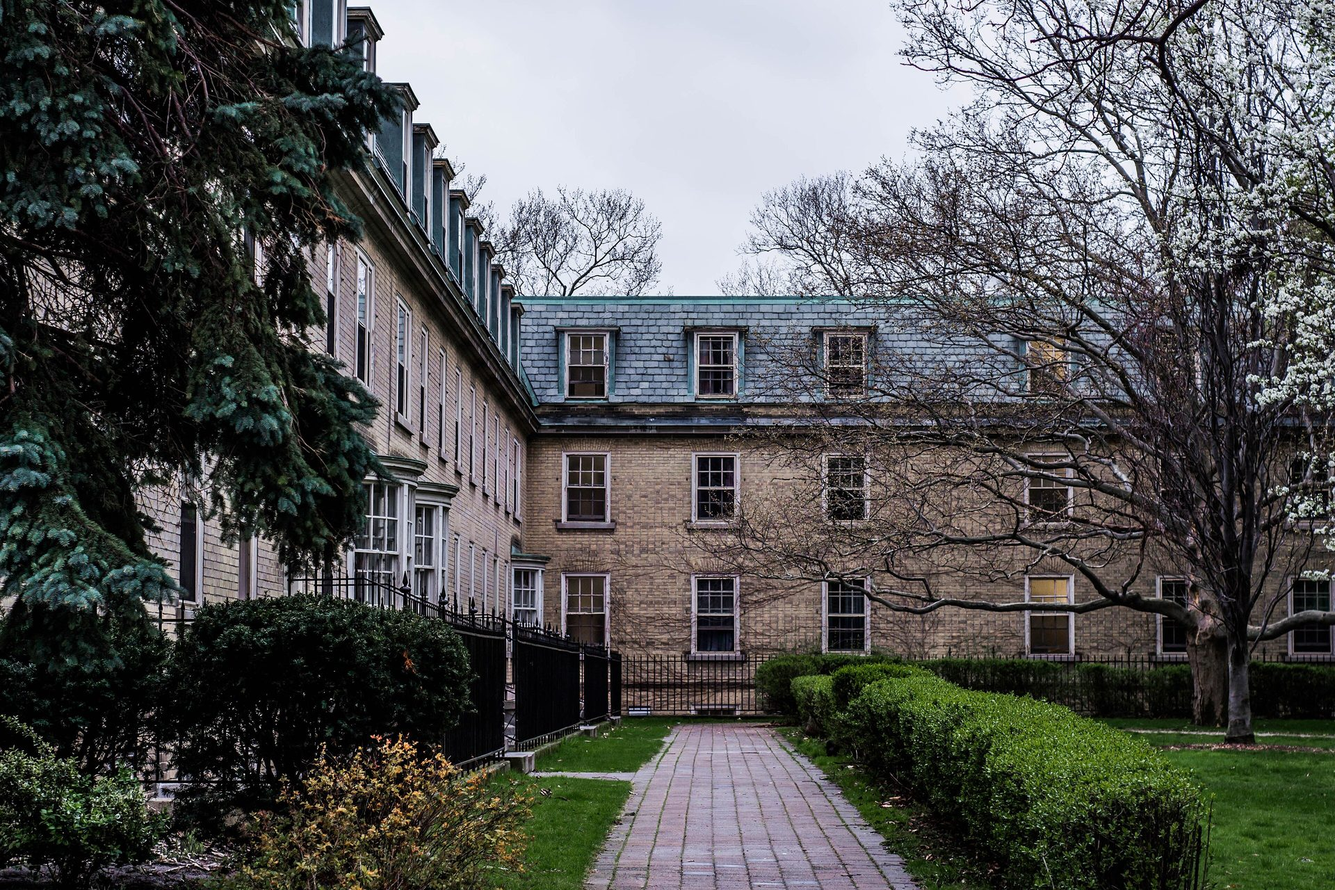
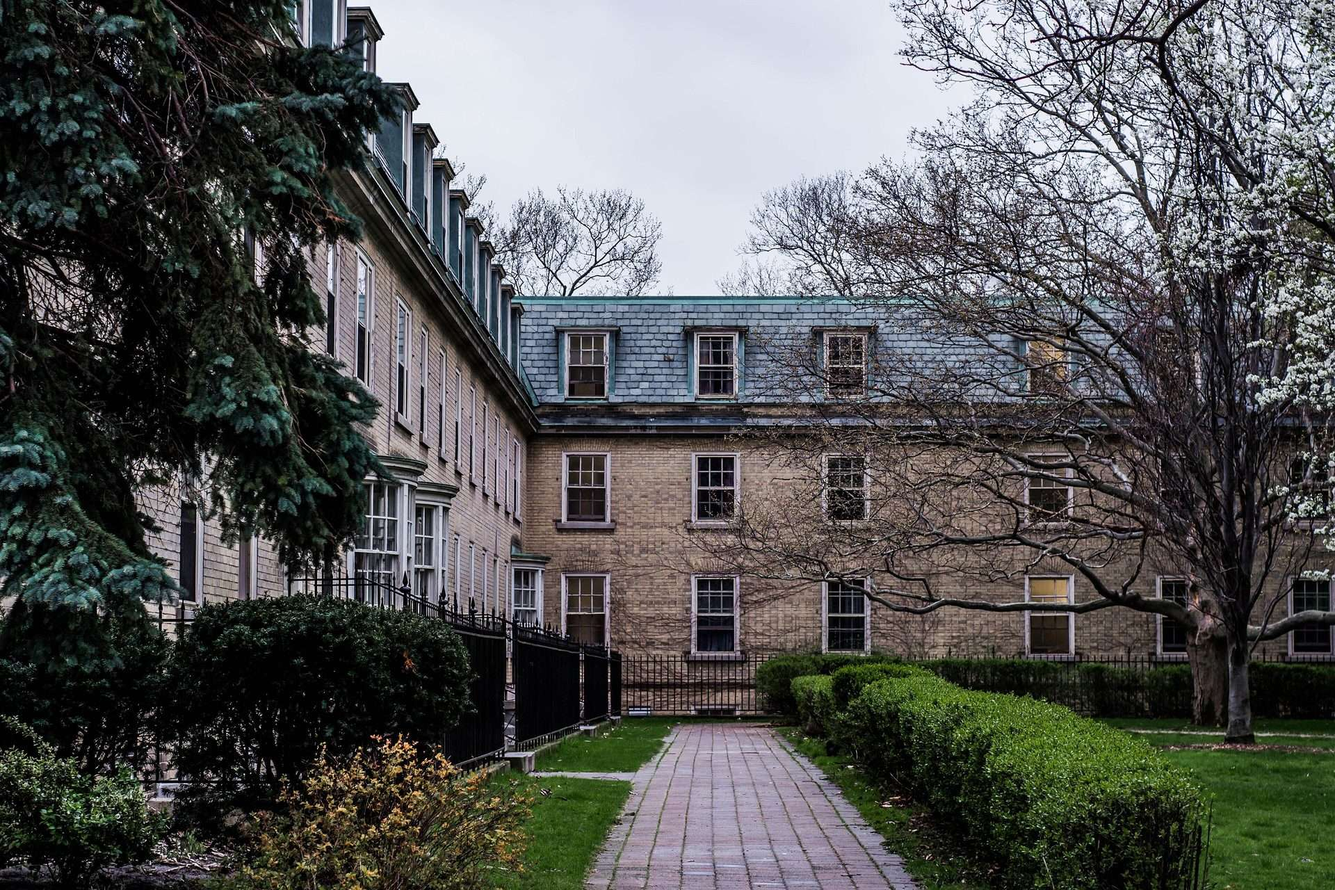
Corrige os problemas da auditoria de design
- Título da Motivação cabe na coluna: o tamanho segue a largura e o número de letras
- Plural de palavras em "ão" (coleção vira coleções)
- Textos miúdos sobem para 0,72rem (contagem da capa e selos dos tópicos)
- Letreiros verticais: caixa da letra cobre os acentos e a conta do tamanho tem folga
- Foto da UEM recomprimida (804 KB para 489 KB)
- Conteúdo pré-carregado em arquivo à parte, carregado só na hora de aplicar
- PRODUCT.md com os nomes, a logo e as pendências atuais

diff --git a/src/pages/ModulePage.tsx b/src/pages/ModulePage.tsx
@@ -1,4 +1,4 @@
-import { Fragment, useState } from 'react'
+import { Fragment, useState, type CSSProperties } from 'react'
 import { Link, Navigate, useParams } from 'react-router-dom'
 import { AddForm } from '../components/AddForm'
 import { Band, Film } from '../components/Cover'
@@ -203,8 +203,10 @@ function RenaissanceHeader({ mod, summary }: { mod: AppModule; summary: string }
   return (
     <header>
     <div className="grid items-center gap-8 md:grid-cols-[minmax(0,1fr)_minmax(0,1.15fr)]">
-      <div>
-        <h1 className="bodoni text-[4.5rem] text-accent md:text-[6rem]">{mod.label}</h1>
+      <div className="@container">
+        <h1 className="bodoni text-[min(6rem,calc(130cqw/var(--len)))] text-accent" style={{ '--len': mod.label.length } as CSSProperties}>
+          {mod.label}
+        </h1>
         <span className="plate-rule mt-6 w-10" />
         <p className="garamond mt-5 max-w-[24rem] text-[1.6rem] leading-snug italic">{mod.tagline}</p>
       </div>
@@ -433,7 +435,7 @@ function ControlRow({
         <span className="flex flex-wrap items-center gap-x-2 gap-y-1">
           <span className="font-semibold">{topic.title}</span>
           {topic.badge && (
-            <span className="mono rounded-full border border-accent px-2 text-[0.68rem] uppercase text-accent">
+            <span className="mono rounded-full border border-accent px-2 text-[0.72rem] uppercase text-accent">
               {topic.badge}
             </span>
           )}

diff --git a/src/index.css b/src/index.css
@@ -813,12 +813,13 @@ textarea {
   align-items: center;
   justify-content: space-between;
   gap: 1rem;
-  padding: 1rem 0.55rem 0.9rem 1.05rem;
+  padding: 1rem 0.55rem 0.9rem 0.8rem;
   background: #0d0c0a;
 }
 .band-title {
   writing-mode: vertical-rl;
-  font-size: min(calc(30svh / (var(--len) * 0.7)), 4rem);
+  line-height: 1; /* a caixa cobre os acentos (Ó, Ã), que saíam pela borda da faixa */
+  font-size: min(calc(30svh / (var(--len) * 0.9)), 4rem);
 }
 .band-foot {
   display: flex;
@@ -826,17 +827,17 @@ textarea {
   align-items: center;
   gap: 0.5rem;
   white-space: nowrap;
-  font-size: 0.62rem;
+  font-size: 0.72rem;
 }
 @media (min-width: 768px) {
   .band {
     top: 4svh;
     left: 3.5vw;
     bottom: 10svh;
-    padding: 1.4rem 0.8rem 1.1rem 1.75rem;
+    padding: 1.4rem 0.8rem 1.1rem 1.3rem;
   }
   .band-title {
-    font-size: min(calc(62svh / (var(--len) * 0.7)), 9rem);
+    font-size: min(calc(62svh / (var(--len) * 0.9)), 9rem);
   }
 }
 

diff --git a/src/core/seed.ts b/src/core/seed.ts
@@ -1,4 +1,3 @@
-import { CONTENT_VERSION, contentModules } from '../data/content'
 import type { LinkSeed, ModuleContent } from '../data/content/helpers'
 import { roadmap } from '../data/roadmap'
 import { db, type CheckItem, type Resource } from './db'
@@ -81,7 +80,9 @@ async function applyModule(c: ModuleContent) {
   }
 }
 
+// O conteúdo vem num arquivo à parte, carregado só aqui, para não pesar a abertura do app.
 async function applyContent() {
+  const { CONTENT_VERSION, contentModules } = await import('../data/content')
   await db.transaction('rw', [db.groups, db.topics, db.checks, db.resources, db.meta], async () => {
     const done = ((await db.meta.get(CONTENT_KEY))?.value as number | undefined) ?? 0
     if (done >= CONTENT_VERSION) return

diff --git a/src/core/geometry.ts b/src/core/geometry.ts
@@ -9,4 +9,5 @@ export function pie(r: number, ratio: number) {
 }
 
 // Plural simples dos rótulos dos módulos (tópico, conteúdo, item, tema).
-export const plural = (word: string) => (word.endsWith('m') ? `${word.slice(0, -1)}ns` : `${word}s`)
+export const plural = (word: string) =>
+  word.endsWith('m') ? `${word.slice(0, -1)}ns` : word.endsWith('ão') ? `${word.slice(0, -2)}ões` : `${word}s`

diff --git a/PRODUCT.md b/PRODUCT.md
@@ -18,7 +18,7 @@ O dono não acompanha o código; o Claude mantém o app.
 
 ## Product Purpose
 
-Organizar todos os estudos da vida dele num lugar só, separados em módulos (Profissional, Trabalho, UEM, Igreja, Cultura, Mental).
+Organizar todos os estudos da vida dele num lugar só, separados em módulos (Profissional, Trabalho, UEM, Igreja, Repertório e Motivação; os ids internos continuam `cultura` e `mental`).
 
 Sucesso, nas palavras dele:
 - **Tudo num lugar só**: links, vídeos, arquivos e anotações juntos, sem caçar em vários apps.
@@ -42,14 +42,14 @@ Não é um app de produtividade genérico nem um curso. É um caderno pessoal pr
 - Sem login e sem sincronização por enquanto. Sincronizar PC e celular (Supabase) é a próxima grande etapa; anexos hoje só existem no aparelho em que foram adicionados.
 - Interface toda em português.
 - Links nunca são inventados: cada URL e vídeo é verificado antes de entrar. Português primeiro; inglês só se for didático, marcado "(EN)".
-- Em aberto: refinar Cultura com as referências do dono; confirmar quais cursos da Igreja exigem assinatura; o dono ainda vai inserir o resto do conteúdo da UEM.
+- Em aberto: confirmar quais cursos da Igreja exigem assinatura; o dono ainda vai inserir o resto do conteúdo da UEM.
 
 ## Brand Commitments
 
 - Nome: "Estudos".
-- Logo: triângulo de largada com um círculo de controle (`src/components/Logo.tsx`, `public/favicon.svg`, ícones do PWA). Trocada em 27/10/2026, com aval do dono.
+- Logo: estrela de quatro pontas dentro de uma órbita, na cor do módulo (`src/components/Logo.tsx`, `public/favicon.svg`, ícones do PWA).
 - Cada módulo tem a sua cor, e essa cor tinge o app quando ele está aberto.
-- Cada módulo pode ter um mundo visual próprio, guiado pelas referências do dono (Igreja: pôster católico; Mental: colagem renascentista). Os demais usam o mapa de orientação.
+- Cada módulo pode ter um mundo visual próprio, guiado pelas referências do dono (Igreja: manuscrito medieval; Motivação: colagem renascentista). Os demais usam o mapa de orientação e, por enquanto, abrem com a capa da página inicial.
 - Conteúdo não é sequencial: nada no visual impõe ordem entre tópicos.
 - Tema escuro por padrão, com opção de claro.
 
